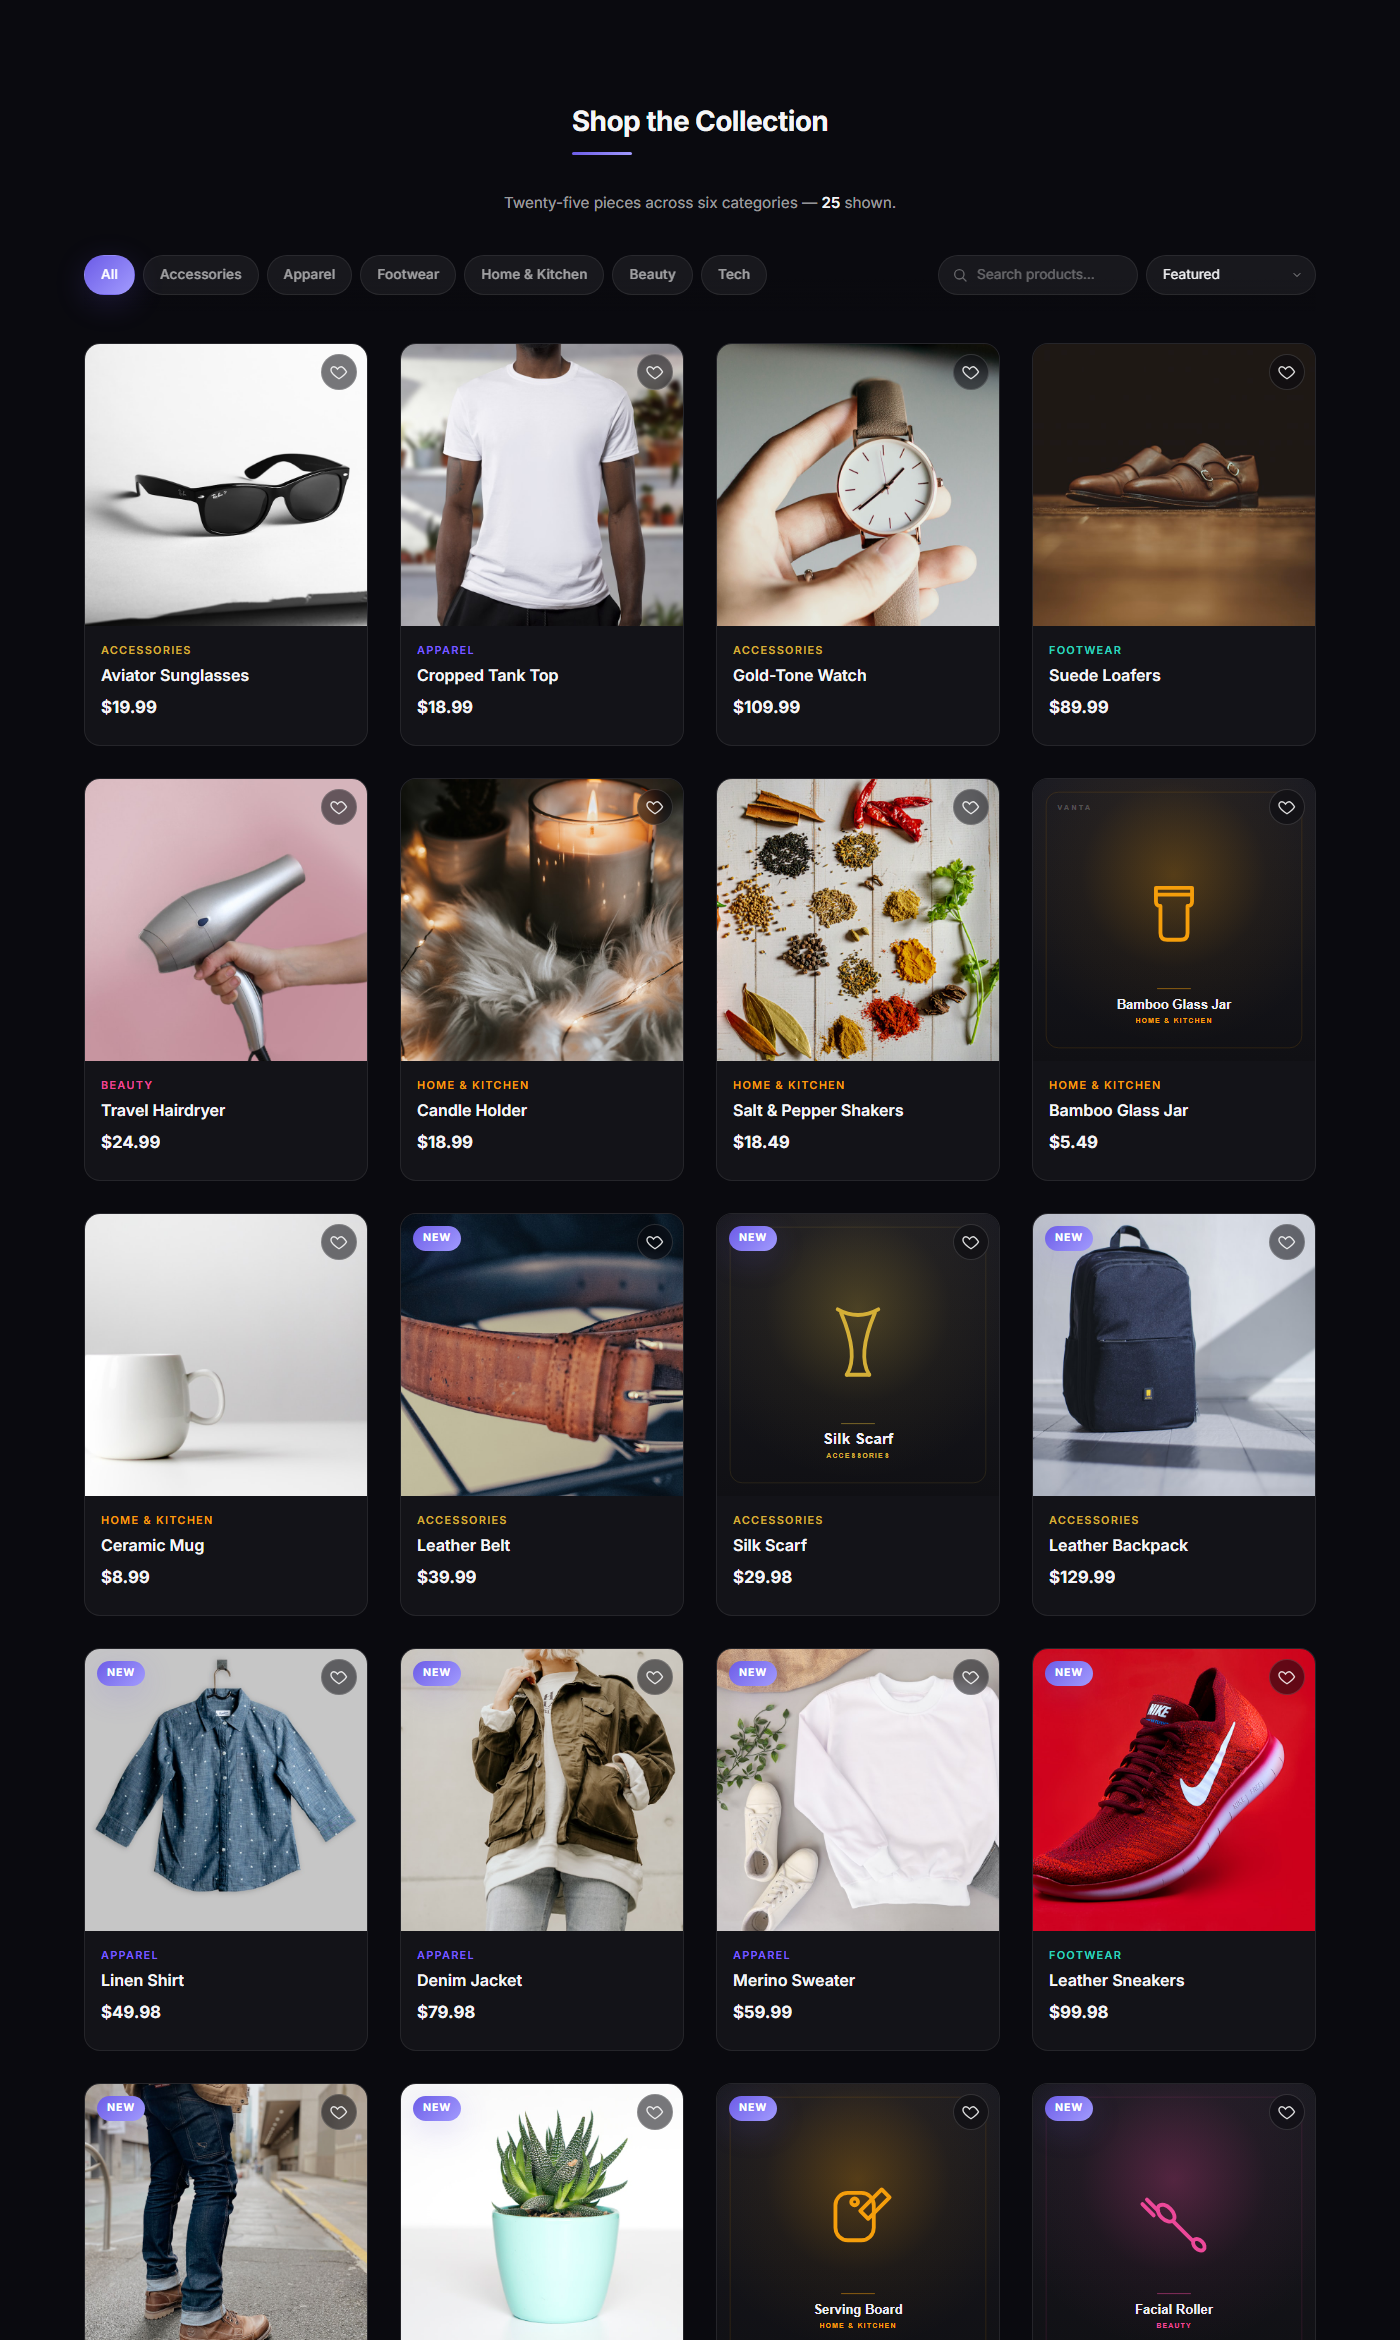
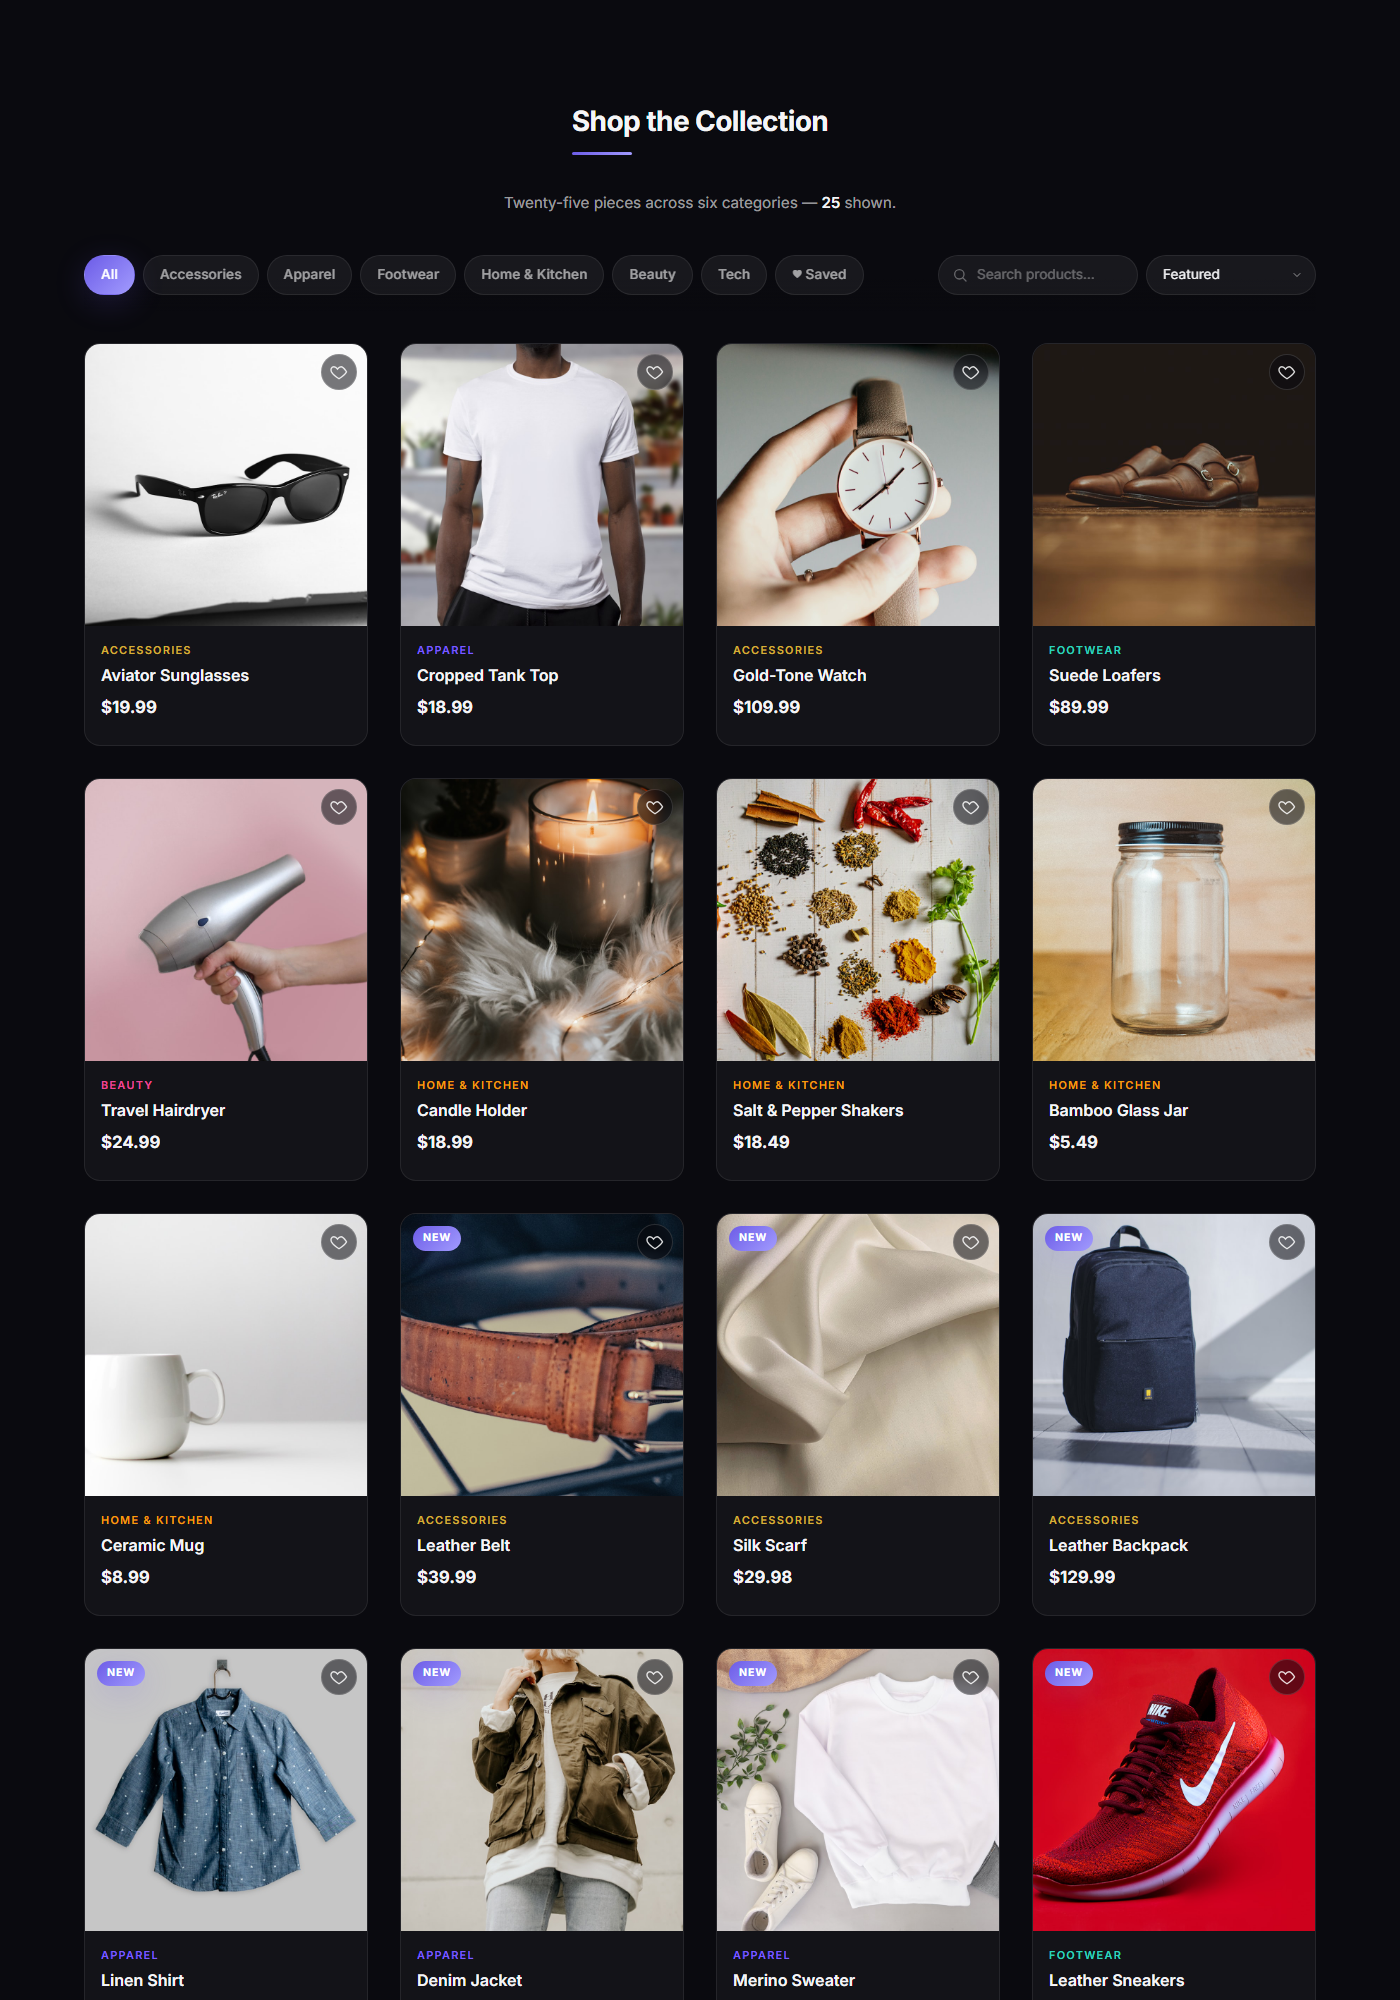
feat(storefront): all-real photos, wishlist w/ header count + Saved filter, image zoom
- Source correct real photos for the final 4 items (silk scarf, glass jar,
  serving board, facial roller) via curated Unsplash URLs — catalog is now
  100% real product photography (25/25), no placeholder tiles.
- Wishlist: header heart with a live saved-count badge, a 'Saved' filter pill,
  and /#wishlist deep-link; fix [hidden] badge so it hides at zero.
- Product page: click-to-zoom lightbox (Esc / click to close).
- Cart: show item count in the heading.

diff --git a/src/frontend/static/js/catalog.js b/src/frontend/static/js/catalog.js
@@ -1,18 +1,15 @@
 /*
  * VANTA — catalog interactions: category filter, live search, sort,
- * "New" badges, and a localStorage-backed wishlist.
+ * "New" badges, a localStorage wishlist (with header count + Saved filter),
+ * and a product-image zoom lightbox.
  * Progressive enhancement: with JS off, all products still render.
  */
 (function () {
   "use strict";
 
   var CAT_LABELS = {
-    "accessories": "Accessories",
-    "apparel": "Apparel",
-    "footwear": "Footwear",
-    "home-kitchen": "Home & Kitchen",
-    "beauty": "Beauty",
-    "tech": "Tech"
+    "accessories": "Accessories", "apparel": "Apparel", "footwear": "Footwear",
+    "home-kitchen": "Home & Kitchen", "beauty": "Beauty", "tech": "Tech"
   };
   var WISH_KEY = "vanta_wishlist";
 
@@ -22,7 +19,7 @@
     el.textContent = CAT_LABELS[slug] || slug;
   });
 
-  // --- wishlist helpers (shared) ---
+  // --- wishlist store ---
   function loadWish() {
     try { return new Set(JSON.parse(localStorage.getItem(WISH_KEY) || "[]")); }
     catch (e) { return new Set(); }
@@ -32,35 +29,66 @@
   }
   var wish = loadWish();
 
+  function updateWishHeader() {
+    var c = document.getElementById("wish-count");
+    if (!c) return;
+    if (wish.size > 0) { c.textContent = wish.size; c.hidden = false; }
+    else { c.hidden = true; }
+  }
+  updateWishHeader();
+
   function bindWish(btn) {
     var id = btn.getAttribute("data-id");
-    var saved = wish.has(id);
-    btn.classList.toggle("is-saved", saved);
-    btn.setAttribute("aria-pressed", saved ? "true" : "false");
-    btn.addEventListener("click", function (e) {
-      e.preventDefault(); e.stopPropagation();
-      if (wish.has(id)) { wish.delete(id); } else { wish.add(id); }
-      saveWish(wish);
+    function paint() {
       var on = wish.has(id);
       btn.classList.toggle("is-saved", on);
       btn.setAttribute("aria-pressed", on ? "true" : "false");
+    }
+    paint();
+    btn.addEventListener("click", function (e) {
+      e.preventDefault(); e.stopPropagation();
+      if (wish.has(id)) wish.delete(id); else wish.add(id);
+      saveWish(wish); paint(); updateWishHeader();
+      if (typeof activeFilter !== "undefined" && activeFilter === "__wishlist") applyFilter();
     });
   }
   document.querySelectorAll(".vpc-wish").forEach(bindWish);
 
+  // --- product-image zoom lightbox (product page) ---
+  var pimg = document.querySelector(".product-image-container img");
+  if (pimg) {
+    pimg.classList.add("zoomable");
+    pimg.addEventListener("click", function () {
+      var ov = document.createElement("div");
+      ov.className = "vanta-lightbox";
+      ov.setAttribute("role", "dialog");
+      ov.setAttribute("aria-label", pimg.alt || "Product image");
+      var big = document.createElement("img");
+      big.src = pimg.src; big.alt = pimg.alt;
+      ov.appendChild(big);
+      document.body.appendChild(ov);
+      requestAnimationFrame(function () { ov.classList.add("open"); });
+      function close() { ov.classList.remove("open"); setTimeout(function () { ov.remove(); }, 250); }
+      ov.addEventListener("click", close);
+      document.addEventListener("keydown", function esc(e) {
+        if (e.key === "Escape") { close(); document.removeEventListener("keydown", esc); }
+      });
+    });
+  }
+
+  // --- home grid: filter / search / sort ---
   var grid = document.getElementById("product-grid");
-  if (!grid) return; // not on the home page
+  if (!grid) return;
 
   var cards = Array.prototype.slice.call(grid.querySelectorAll(".vanta-product-card"));
 
-  // --- "New" badge on freshly-added products (VNT* ids) ---
+  // "New" badge on freshly-added products (VNT* ids)
   cards.forEach(function (card) {
     if ((card.getAttribute("data-id") || "").indexOf("VNT") === 0) {
       var wrap = card.querySelector(".vpc-media-wrap");
       if (wrap && !wrap.querySelector(".vpc-badge-new")) {
         var b = document.createElement("span");
-        b.className = "vpc-badge-new";
-        b.textContent = "New";
+        b.className = "vpc-badge-new"; b.textContent = "New";
         wrap.appendChild(b);
       }
     }
@@ -78,45 +106,52 @@
   function applyFilter() {
     var shown = 0;
     cards.forEach(function (card) {
-      var catOk = activeFilter === "all" || card.getAttribute("data-category") === activeFilter;
       var nameOk = !term || (card.getAttribute("data-name") || "").toLowerCase().indexOf(term) !== -1;
+      var catOk;
+      if (activeFilter === "__wishlist") catOk = wish.has(card.getAttribute("data-id"));
+      else catOk = activeFilter === "all" || card.getAttribute("data-category") === activeFilter;
       var match = catOk && nameOk;
       card.hidden = !match;
       if (match) shown++;
     });
     if (countEl) countEl.textContent = shown;
-    if (emptyEl) emptyEl.hidden = shown !== 0;
+    if (emptyEl) {
+      emptyEl.hidden = shown !== 0;
+      emptyEl.textContent = activeFilter === "__wishlist"
+        ? "No saved items yet — tap the ♥ on any product."
+        : "No products match your search.";
+    }
   }
 
   function price(card) { return parseFloat(card.getAttribute("data-price")) || 0; }
-  function name(card) { return card.getAttribute("data-name") || ""; }
+  function nameOf(card) { return card.getAttribute("data-name") || ""; }
 
   function applySort() {
     var mode = sortSel ? sortSel.value : "featured";
     var arr = originalOrder.slice();
     if (mode === "price-asc") arr.sort(function (a, b) { return price(a) - price(b); });
     else if (mode === "price-desc") arr.sort(function (a, b) { return price(b) - price(a); });
-    else if (mode === "name") arr.sort(function (a, b) { return name(a).localeCompare(name(b)); });
+    else if (mode === "name") arr.sort(function (a, b) { return nameOf(a).localeCompare(nameOf(b)); });
     arr.forEach(function (card) { grid.appendChild(card); });
   }
 
+  function activate(pill) {
+    pills.forEach(function (p) { p.classList.remove("active"); p.setAttribute("aria-selected", "false"); });
+    pill.classList.add("active"); pill.setAttribute("aria-selected", "true");
+    activeFilter = pill.getAttribute("data-filter");
+    applyFilter();
+  }
+
   pills.forEach(function (pill) {
-    pill.addEventListener("click", function () {
-      pills.forEach(function (p) { p.classList.remove("active"); p.setAttribute("aria-selected", "false"); });
-      pill.classList.add("active");
-      pill.setAttribute("aria-selected", "true");
-      activeFilter = pill.getAttribute("data-filter");
-      applyFilter();
-    });
+    pill.addEventListener("click", function () { activate(pill); });
   });
-
   if (sortSel) sortSel.addEventListener("change", function () { applySort(); applyFilter(); });
+  if (searchEl) searchEl.addEventListener("input", function () { term = searchEl.value.trim().toLowerCase(); applyFilter(); });
 
-  if (searchEl) {
-    searchEl.addEventListener("input", function () {
-      term = searchEl.value.trim().toLowerCase();
-      applyFilter();
-    });
+  // deep-link: /#wishlist opens the Saved filter
+  if (location.hash === "#wishlist") {
+    var wp = document.querySelector('.cat-pill[data-filter="__wishlist"]');
+    if (wp) activate(wp);
   }
 
   applyFilter();

diff --git a/src/frontend/static/styles/styles.css b/src/frontend/static/styles/styles.css
@@ -862,3 +862,35 @@ footer .footer-built-by {
 .vpc-wish.is-saved svg { fill:#ff5c8a; stroke:#ff5c8a; }
 .vpc-wish.is-saved { animation: wish-pop var(--duration-normal) var(--ease-bounce); }
 @keyframes wish-pop { 0%{transform:scale(1);} 45%{transform:scale(1.28);} 100%{transform:scale(1);} }
+
+/* =============================================================================
+ * VANTA — Wishlist header/count, Saved filter, product zoom lightbox (added)
+ * ============================================================================= */
+.wish-size-circle { background: #ff5c8a; }
+#wish-header.cart-link:hover svg { color: #ff5c8a !important; }
+
+.cat-pill-saved.active { background: linear-gradient(135deg, #ff5c8a, #ff85a8); box-shadow: 0 8px 32px rgba(255,92,138,0.22); }
+
+/* Product-image zoom */
+.product-image-container img.zoomable { cursor: zoom-in; }
+
+.vanta-lightbox {
+  position: fixed; inset: 0; z-index: 1000;
+  display: flex; align-items: center; justify-content: center;
+  padding: 4vmin; cursor: zoom-out;
+  background: rgba(6,6,10,0.86); backdrop-filter: blur(8px);
+  opacity: 0; transition: opacity var(--duration-normal) var(--ease-out);
+}
+.vanta-lightbox.open { opacity: 1; }
+.vanta-lightbox img {
+  max-width: min(92vw, 900px); max-height: 92vh; object-fit: contain;
+  border-radius: var(--radius-lg); box-shadow: var(--shadow-lg);
+  transform: scale(0.96); transition: transform var(--duration-normal) var(--ease-out);
+}
+.vanta-lightbox.open img { transform: scale(1); }
+
+/* Cart heading item count */
+.cart-count-inline { color: var(--text-muted); font-weight: 500; font-size: 0.7em; }
+
+/* Fix: [hidden] must beat .cart-size-circle display */
+.cart-size-circle[hidden] { display: none !important; }

diff --git a/src/frontend/templates/header.html b/src/frontend/templates/header.html
@@ -60,6 +60,11 @@
                     </a>
                     {{ end }}
 
+                    <a href="{{ $.baseUrl }}/#wishlist" class="cart-link" title="Wishlist" id="wish-header">
+                        <svg width="22" height="22" viewBox="0 0 24 24" fill="none" stroke="currentColor" stroke-width="2" stroke-linecap="round" stroke-linejoin="round" style="color: rgba(255,255,255,0.8);"><path d="M20.8 4.6a5.5 5.5 0 0 0-7.8 0L12 5.6l-1-1a5.5 5.5 0 0 0-7.8 7.8L12 21l8.8-8.6a5.5 5.5 0 0 0 0-7.8z"/></svg>
+                        <span class="cart-size-circle wish-size-circle" id="wish-count" hidden></span>
+                    </a>
+
                     <a href="{{ $.baseUrl }}/cart" class="cart-link" title="Shopping Cart">
                         <svg width="22" height="22" viewBox="0 0 24 24" fill="none" stroke="currentColor" stroke-width="2" stroke-linecap="round" stroke-linejoin="round" style="color: rgba(255,255,255,0.8);"><circle cx="9" cy="21" r="1"/><circle cx="20" cy="21" r="1"/><path d="M1 1h4l2.68 13.39a2 2 0 0 0 2 1.61h9.72a2 2 0 0 0 2-1.61L23 6H6"/></svg>
                         {{ if $.cart_size }}

diff --git a/src/frontend/templates/home.html b/src/frontend/templates/home.html
@@ -43,6 +43,7 @@
           <button class="cat-pill" data-filter="home-kitchen" role="tab">Home &amp; Kitchen</button>
           <button class="cat-pill" data-filter="beauty" role="tab">Beauty</button>
           <button class="cat-pill" data-filter="tech" role="tab">Tech</button>
+          <button class="cat-pill cat-pill-saved" data-filter="__wishlist" role="tab" aria-label="Saved items">♥ Saved</button>
         </div>
         <div class="cat-tools">
           <div class="cat-search">

diff --git a/src/frontend/templates/cart.html b/src/frontend/templates/cart.html
@@ -11,7 +11,7 @@
   <section class="cart-page">
     <div class="vanta-container">
 
-      <h2 class="section-heading">Your Cart</h2>
+      <h2 class="section-heading">Your Cart{{ if $.items }} <span class="cart-count-inline">({{ len $.items }} item{{ if ne (len $.items) 1 }}s{{ end }})</span>{{ end }}</h2>
 
       {{ if not $.items }}
       <div class="cart-empty-state">
